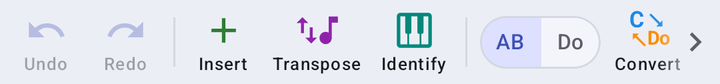
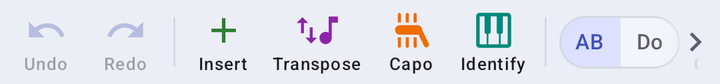
Android help images retaken for the new UI: the Edit ribbon with Capo and no hint strip, the greyed-out Save, the new Suggest Capo rows, and Settings › Voicings with the locked built-ins, the Add voicing menu (new shot) and the forms without Copy from existing; directive-hint.png and the unused typo

diff --git a/android/tools/HELP_SHOTS.md b/android/tools/HELP_SHOTS.md
@@ -137,10 +137,10 @@ legend. Pages are named `file: section`.
 | Image | Shows | For (page: section) |
 |---|---|---|
 | `editor-main-window.png`<br>`editor-main-window.dark.png` | Play tab of a phone in portrait while a song plays (frozen on Em, bar 6): text with the playhead and yellow highlight, chord sheet (piano roll), player. No callouts (the Android counterpart of the desktop's hero shot). (phone) | introduction: What is Chord Notepad? |
-| `main-play-labeled.png`<br>`main-play-labeled.dark.png` | Play tab of a phone in portrait while a song plays (frozen on Em, bar 6): app bar, text with the playhead and yellow highlight, chord sheet (piano roll), player. Callouts: 1 drawer, 2 title, 3 Edit/Play tabs, 4 Save, 6 text, 7 player, 8 chord sheet (5 is the ribbon, only in Edit). (phone) | getting_started: The Main Window; interface: Edit and Play |
-| `main-edit-labeled.png`<br>`main-edit-labeled.dark.png` | Edit tab of a phone in portrait: app bar, Edit ribbon, editable text. Callouts: 1 drawer, 2 title, 3 Edit/Play tabs, 4 Save, 5 Edit ribbon, 6 text. (phone) | getting_started: The Main Window; interface: The Edit Ribbon |
+| `main-play-labeled.png`<br>`main-play-labeled.dark.png` | Play tab of a phone in portrait while a song plays (frozen on Em, bar 6): app bar, text with the playhead and yellow highlight, chord sheet (piano roll), player. Callouts: 1 drawer, 2 title, 3 Edit/Play tabs, 4 Save (greyed out), 6 text, 7 player, 8 chord sheet (5 is the ribbon, only in Edit). (phone) | getting_started: The Main Window; interface: Edit and Play |
+| `main-edit-labeled.png`<br>`main-edit-labeled.dark.png` | Edit tab of a phone in portrait: app bar, Edit ribbon, editable text. Callouts: 1 drawer, 2 title, 3 Edit/Play tabs, 4 Save (greyed out: nothing to save), 5 Edit ribbon, 6 text. (phone) | getting_started: The Main Window; interface: The Edit Ribbon |
 | `player-labeled.png`<br>`player-labeled.dark.png` | The player alone while playing, metronome on and speed 125% (badge 1.25x). Callouts: 1 song pill, 2 Voicing (greyed while playing), 3 Instrument, 4 back to start, 5 play/pause, 6 metronome, 7 speed, 8 chord sheet button, 9 status line. (phone) | interface: The Player; getting_started: Playing Your First Chord / Adjusting the Tempo |
-| `edit-ribbon.png` | The Edit ribbon on a phone: Undo, Redo, Insert, Transpose, Identify, AB/Do, Convert, and the › chevron (more to the right). (phone) | interface: The Edit Ribbon |
+| `edit-ribbon.png` | The Edit ribbon on a phone: Undo, Redo, Insert, Transpose, Capo, Identify, AB/Do, and the › chevron (Convert is further right). (phone) | interface: The Edit Ribbon |
 | `notation-toggle.png` | Close-up of the AB/Do notation switch and the Convert button in the Edit ribbon. (phone) | introduction: Multiple Notation Systems; writing_chords: Switching Notations |
 | `editor-colours.png` | Edit tab text showing every colour: purple directives, a red invalid directive ({tempo: fast}), a grey comment, blue underlined chords and a grey underlined non-chord (Gsus5). (phone) | interface: Color Coding |
 | `playhead.png` | Play tab text with the playhead (primary-coloured bar and triangle) before the Em chord. (phone) | interface: The Playhead; playback: Playing from the Cursor |
@@ -157,17 +157,17 @@ legend. Pages are named `file: section`.
 | `insert-capo.png` | Insert Capo dialog: the Fret field (0–12) and Suggest. (phone) | interface: Insert Directive Dialogs; chord_sheet: Suggesting a Capo; directives: Capo |
 | `insert-label.png` | Insert Label dialog: the label name field. (phone) | interface: Insert Directive Dialogs |
 | `insert-loop.png` | Insert Loop dialog: label and count fields. (phone) | interface: Insert Directive Dialogs |
-| `capo-suggest.png` | Suggest Capo dialog (＋ Insert → Capo → Suggest): pick the fretboard voicing to optimize for. (phone) | chord_sheet: Suggesting a Capo; directives: Finding the Best Capo |
+| `capo-suggest.png` | Suggest Capo dialog (＋ Insert → Capo → Suggest, or the ribbon's Capo): the explanation, the part of the song it applies to, the Voicing dropdown, then radio rows, each with the capo as a heading and its ease at the right, the chord shapes on a larger line and the tags (Recommended, Current) last; Cancel / Apply. (phone) | chord_sheet: Suggesting a Capo; directives: Finding the Best Capo |
 | `transpose.png` | Transpose dialog (whole song): semitones with − / +, Cancel / OK. (phone) | transpose: Transposing a Song |
 | `identify.png` | Chord Identifier (Edit ribbon → Identify): C, E, G and B selected on the keyboard, the Notes field, Possible Chords with Cmaj7 picked, Clear and Insert. (phone) | interface: The Chord Identifier |
-| `drawer.png` | The ☰ drawer: New song, Open…, Recent (three songs), Save as…, Export MIDI…, Settings, Examples, User guide, Quick start, About. (phone) | interface: The Drawer; getting_started: Saving Your Work / Opening Existing Files; midi_export: Exporting a Song |
+| `drawer.png` | The ☰ drawer: New song, Open…, Recent (three songs), Save as…, Export MIDI…, Settings, Examples, User guide, Quick start, About. (phone) | interface: The Drawer; getting_started: Saving Your Work / Opening Existing Files; midi_export: Exporting MIDI |
 | `rename.png` | Rename dialog (tap the title): the name field and 'Saved as "Amazing Grace.txt"'. (phone) | interface: The App Bar; interface: The Song Title |
 | `chord-sheet-piano-roll.png` | Piano roll view: the voiced notes on a keyboard grid, bass in brown, upper voices in blue, the label lane on top. (phone) | chord_sheet: The Four Views |
 | `chord-sheet-staff.png` | Staff view: grand staff in the song's key; Fret cards and Tab are greyed out because the voicing is Piano. (phone) | chord_sheet: The Four Views |
 | `chord-sheet-fret-cards.png` | Fret cards view (Guitar Standard voicing): a chord diagram per chord with zoom − / +. (phone) | chord_sheet: The Four Views |
 | `chord-sheet-tab.png` | Tab view (Guitar Standard voicing): six-line tablature. (phone) | chord_sheet: The Four Views |
 | `landscape-play.png`<br>`landscape-play.dark.png` | Phone in landscape, Play tab: text on the left, the chord sheet and the compact player in the right column, the vertical resize handle between them. (phone, landscape) | chord_sheet: Showing and Resizing the Strip; interface: Edit and Play |
-| `landscape-edit.png` | Phone in landscape, Edit tab: a short title, the tabs and the Edit ribbon share one line. (phone, landscape) | interface: The App Bar (phone held sideways) |
+| `landscape-edit.png` | Phone in landscape, Edit tab: a short title, the tabs, a greyed-out Save and the Edit ribbon (Undo to Convert) share one line. (phone, landscape) | interface: The App Bar (phone held sideways) |
 | `edit-keyboard.png` | A new song in the Edit tab with the keyboard open, after typing C Am F G (each chord blue). (phone) | getting_started: Your First Chord Sheet |
 | `edit-keyboard-collapsed.png` | Phone in landscape typing in Edit: the keyboard leaves little room, so the app bar and ribbon hide and the floating Undo / Redo chip sits above the keyboard. (phone, landscape) | interface: The Edit Ribbon |
 | `directive-explain.png` | Play tab after touching and holding the red {bpm: 500}: a small card under it with the reason and the {bpm} forms. (phone) | interface: Directive Hints |
@@ -175,10 +175,11 @@ legend. Pages are named `file: section`.
 | `settings-pages.png` | ☰ → Settings on a phone: the list of pages (General, Playback, Voicings). (phone) | settings: Settings |
 | `settings-general.png` | Settings › General: font family and size, word wrap (off), chord notation, default key, show quick start at startup, number of recent files. (phone) | settings: General |
 | `settings-playback.png` | Settings › Playback: default BPM and time signature. (phone) | settings: Playback & Audio |
-| `settings-voicings.png` | Settings › Voicings on a phone: Add voicing and the custom voicings grouped by model (My 7-String under Fretboard). (phone) | settings: Voicings |
-| `settings-voicing-form.png` | The voicing form for My 7-String on a phone: Name, Model, Copy from existing, Remove voicing, Strings (B1 E2 A2 D3 G3 B3 E4), Max fret, Fingers, spans…. (phone) | settings: Voicings; settings: Worked Example: A Seven-String Guitar |
+| `settings-voicings.png` | Settings › Voicings on a phone: Add voicing, then the groups by model, each starting with its built-ins in grey with a lock (five fretboards, Piano (default), four ensembles) and My 7-String in black under Fretboard. (phone) | settings: Voicings |
+| `settings-add-voicing.png` | The Add voicing menu over the Voicings list: Blank fretboard, Blank piano, Blank ensemble, then Fretboard (four guitars, Ukulele), Ensemble (four presets), Piano (default) and Your voicings (My 7-String). (phone) | settings: Voicings |
+| `settings-voicing-form.png` | The voicing form for My 7-String on a phone: Name, Model, Remove voicing, Strings (B1 E2 A2 D3 G3 B3 E4), Max fret, Fingers, spans…. (phone) | settings: Voicings; settings: Worked Example: A Seven-String Guitar |
 | `settings-voicing-ensemble.png` | The form of a custom ensemble (Jazz Vocal Trio) on a phone, scrolled to its Voices: the help lines, then one card per voice with ↑, ↓ and ✕, Name, Low, High, Staff and Max gap to next voice (greyed out on Bass). (phone) | ensembles: Custom Ensembles |
-| `settings-voicings-tablet.png` | Settings › Voicings on a tablet: the list on the left and My 7-String's form on the right. (tablet, landscape) | settings: Voicings |
+| `settings-voicings-tablet.png` | Settings › Voicings on a tablet: the list on the left with the locked built-ins and My 7-String selected, and its form on the right. (tablet, landscape) | settings: Voicings |
 | `quick-start.png` | Quick Start, page 1 of 7: Welcome, a highlighted snippet, Show at startup, Previous / Next. (phone) | getting_started: Opening the Application; interface: The Drawer |
 | `licences.png` | Open source licences: the components grouped (this app, Python runtime, audio libraries, …). (phone) | interface: The Drawer |
 | `user-guide.png` | ☰ → User guide: this guide, offline, in the app. (phone) | shortcuts: Help; interface: The Drawer |
